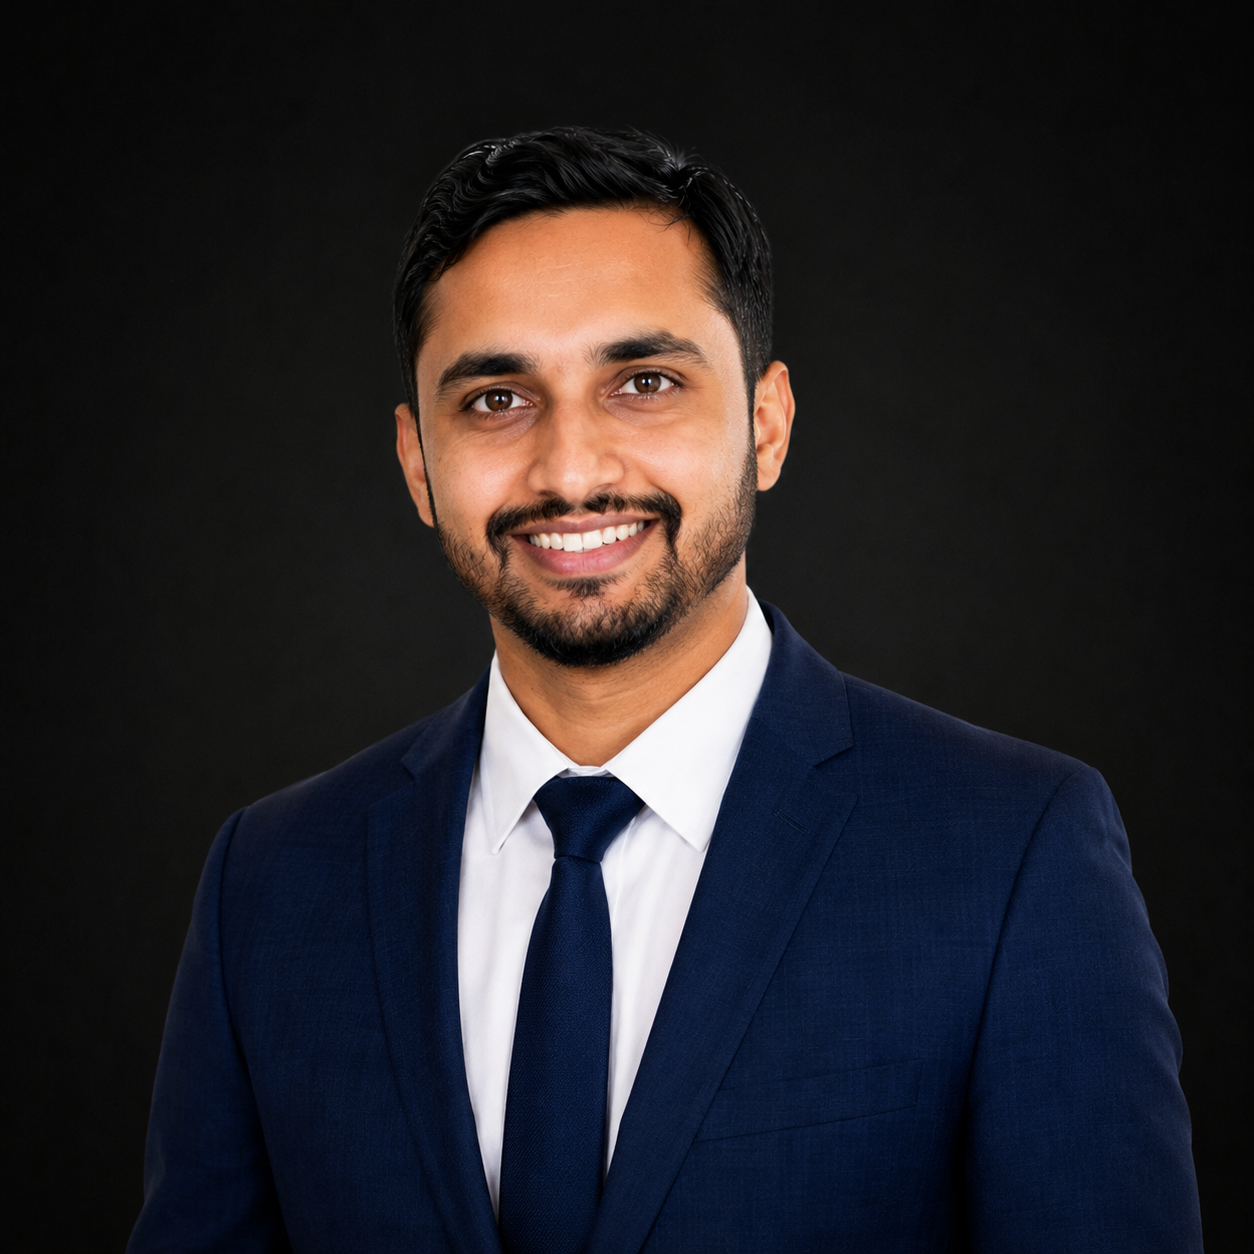
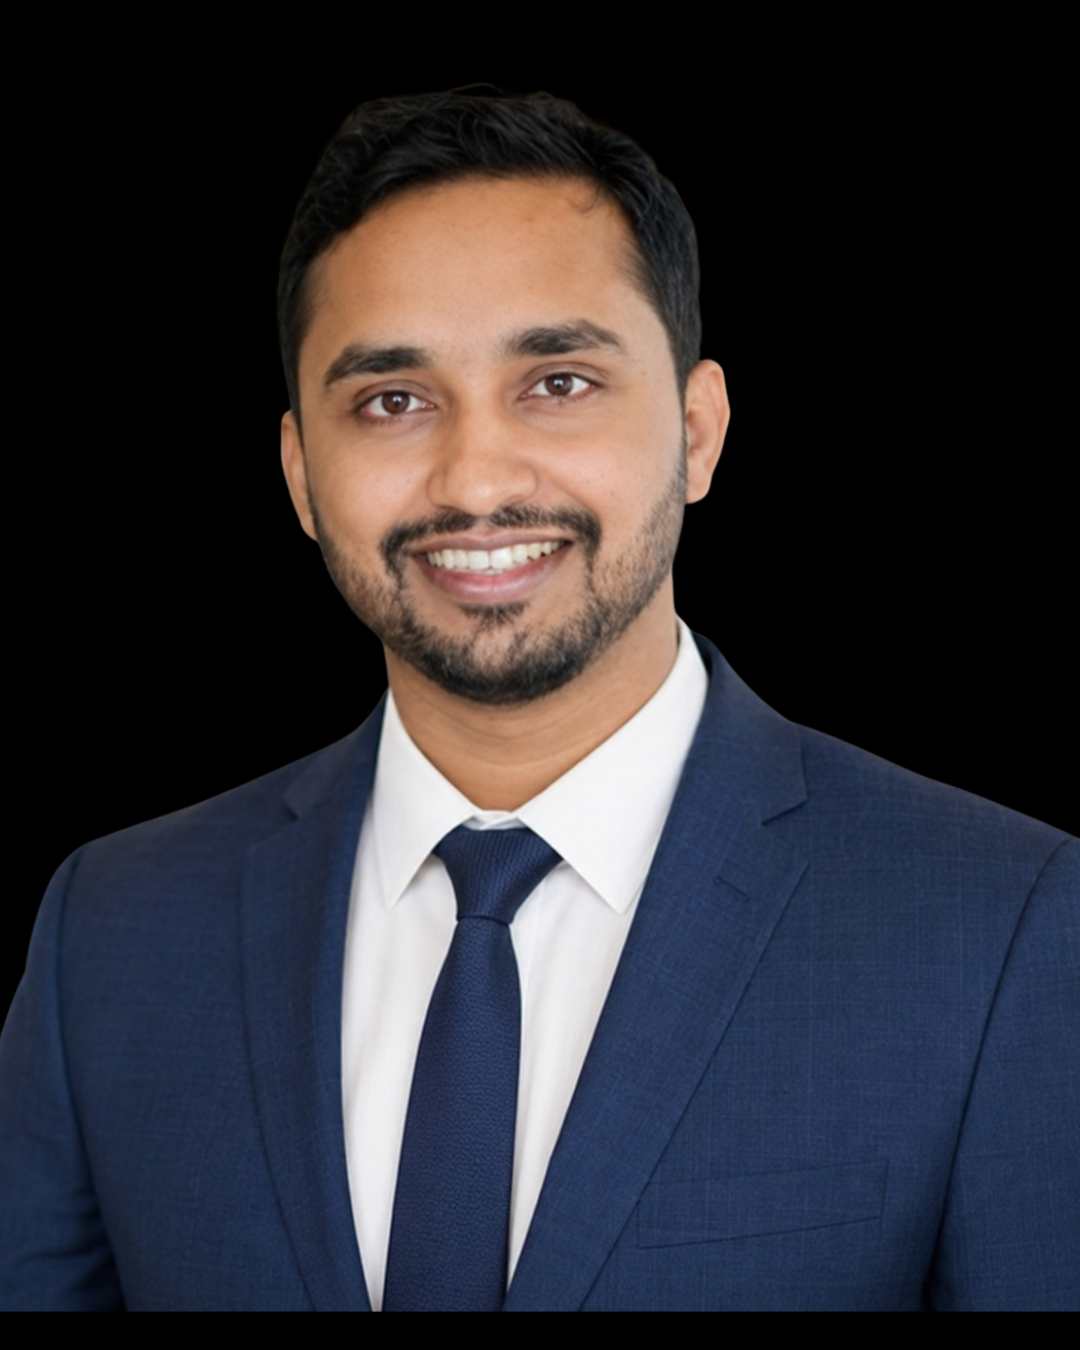
Update founder section

diff --git a/src/components/Founder/Founder.jsx b/src/components/Founder/Founder.jsx
@@ -6,7 +6,6 @@ import FOUNDER_IMAGE from "../../assets/images/Founder.png";
  * Replace FOUNDER_IMAGE with your final portrait path.
  */
 
-
 const LINKEDIN_URL = "https://www.linkedin.com/in/adarsh-mrcompliance/";
 
 function IconAward() {
@@ -84,6 +83,25 @@ function IconLinkedIn() {
   );
 }
 
+function IconFounder() {
+  return (
+    <svg
+      className="mc-founder__highlight-icon-svg"
+      viewBox="0 0 24 24"
+      fill="none"
+      stroke="currentColor"
+      strokeWidth="2"
+      strokeLinecap="round"
+      strokeLinejoin="round"
+      aria-hidden="true"
+    >
+      <circle cx="12" cy="7" r="3" />
+      <path d="M5 21a7 7 0 0 1 14 0" />
+      <path d="m16 14 2 2 4-4" />
+    </svg>
+  );
+}
+
 const HIGHLIGHTS = [
   {
     icon: IconAward,
@@ -100,6 +118,11 @@ const HIGHLIGHTS = [
     title: "Third-Party Risk Management",
     text: "Helping organizations assess and manage vendor risk",
   },
+  {
+  icon: IconFounder,
+  title: "Founder-Led Approach",
+  text: "Hands-on involvement from building the program to getting audit-ready",
+},
 ];
 
 export default function Founder() {
@@ -118,7 +141,7 @@ export default function Founder() {
           }
         });
       },
-      { threshold: 0.15 }
+      { threshold: 0.15 },
     );
     targets.forEach((t) => observer.observe(t));
     return () => observer.disconnect();
@@ -156,7 +179,7 @@ export default function Founder() {
               />
               <div aria-hidden="true" className="mc-founder__portrait-fade" />
               <div className="mc-founder__portrait-badge">
-                <p className="mc-founder__portrait-name">Adarsh Kumar, CISM</p>
+                <p className="mc-founder__portrait-name">Adarsh Kumar</p>
                 <p className="mc-founder__portrait-role">
                   Founder, Mr.Compliance
                 </p>
@@ -166,22 +189,28 @@ export default function Founder() {
             {/* Info */}
             <div className="mc-founder__info">
               <div>
-                <h3 className="mc-founder__name">Adarsh Kumar, CISM</h3>
+                <h3 className="mc-founder__name">Adarsh Kumar</h3>
                 <p className="mc-founder__role">Founder, Mr.Compliance</p>
               </div>
 
               <p className="mc-founder__bio">
-                Adarsh Kumar, CISM, is an Information Security and GRC
-                professional with expertise in SOC 2, compliance, and
-                Third-Party Risk Management.
+                Building the security and compliance foundation that helps
+                companies earn trust. Adarsh Kumar is an Information Security
+                and GRC professional focused on helping growing companies turn
+                security and compliance into a business advantage.
               </p>
               <p className="mc-founder__bio mc-founder__bio--tight">
-                As the Founder of Mr.Compliance, he is focused on helping
-                organizations build practical compliance programs, strengthen
-                security, and earn customer trust.
+                As the founder of Mr.Compliance, he works at the intersection of security, compliance, and customer trust- helping organizations build practical security programs, prepare for audits, manage third-party risk, and confidently demonstrate that they take security seriously.
               </p>
+               <p className="mc-founder__bio mc-founder__bio--tight">
+                His approach is simple: compliance shouldn't be about collecting documents for an auditor. It should create a security program that actually works.
+              </p>
+                
 
               <ul className="mc-founder__highlights">
+                <p className="mc-founder__portrait-role">
+                  Expertise -
+                </p>
                 {HIGHLIGHTS.map((h) => (
                   <li key={h.title} className="mc-founder__highlight">
                     <span className="mc-founder__highlight-icon">

diff --git a/src/components/Founder/Founder.scss b/src/components/Founder/Founder.scss
@@ -47,7 +47,7 @@ $mc-ease: cubic-bezier(0.22, 1, 0.36, 1);
 
   .mc-founder__container {
     position: relative;
-    max-width: 1200px;
+    max-width: 1250px;
     margin: 0 auto;
     padding: 96px 24px;
 
@@ -124,30 +124,31 @@ $mc-ease: cubic-bezier(0.22, 1, 0.36, 1);
   }
 
   /* Portrait */
-  .mc-founder__portrait {
-    position: relative;
-    aspect-ratio: 4 / 5;
+.mc-founder__portrait {
+ position: relative;
+  overflow: hidden;
+  background-color: #030303;
 
-    @media (min-width: 640px) {
-      aspect-ratio: 4 / 3;
-    }
-
-    @media (min-width: 1024px) {
-      aspect-ratio: auto;
-      min-height: 560px;
-    }
+  @media (min-width: 640px) {
+    aspect-ratio: 4 / 3;
   }
 
-  .mc-founder__portrait-img {
-    position: absolute;
-    inset: 0;
-    width: 100%;
-    height: 100%;
-    object-fit: cover;
-    object-position: top center;
-    display: block;
+  @media (min-width: 1024px) {
+    aspect-ratio: auto;
+    min-height: 560px;
   }
+}
 
+.mc-founder__portrait-img {
+ position: absolute;
+  top: 30px;
+  left: 0;
+  width: 100%;
+  height: 100%;
+  object-fit: cover;
+  object-position: top center;
+  display: block;
+}
   .mc-founder__portrait-fade {
     position: absolute;
     inset: 0;
@@ -233,7 +234,7 @@ $mc-ease: cubic-bezier(0.22, 1, 0.36, 1);
     color: $mc-text-muted;
 
     @media (min-width: 768px) {
-      font-size: 1.11rem;
+      font-size: 1rem;
     }
 
     &--tight {
